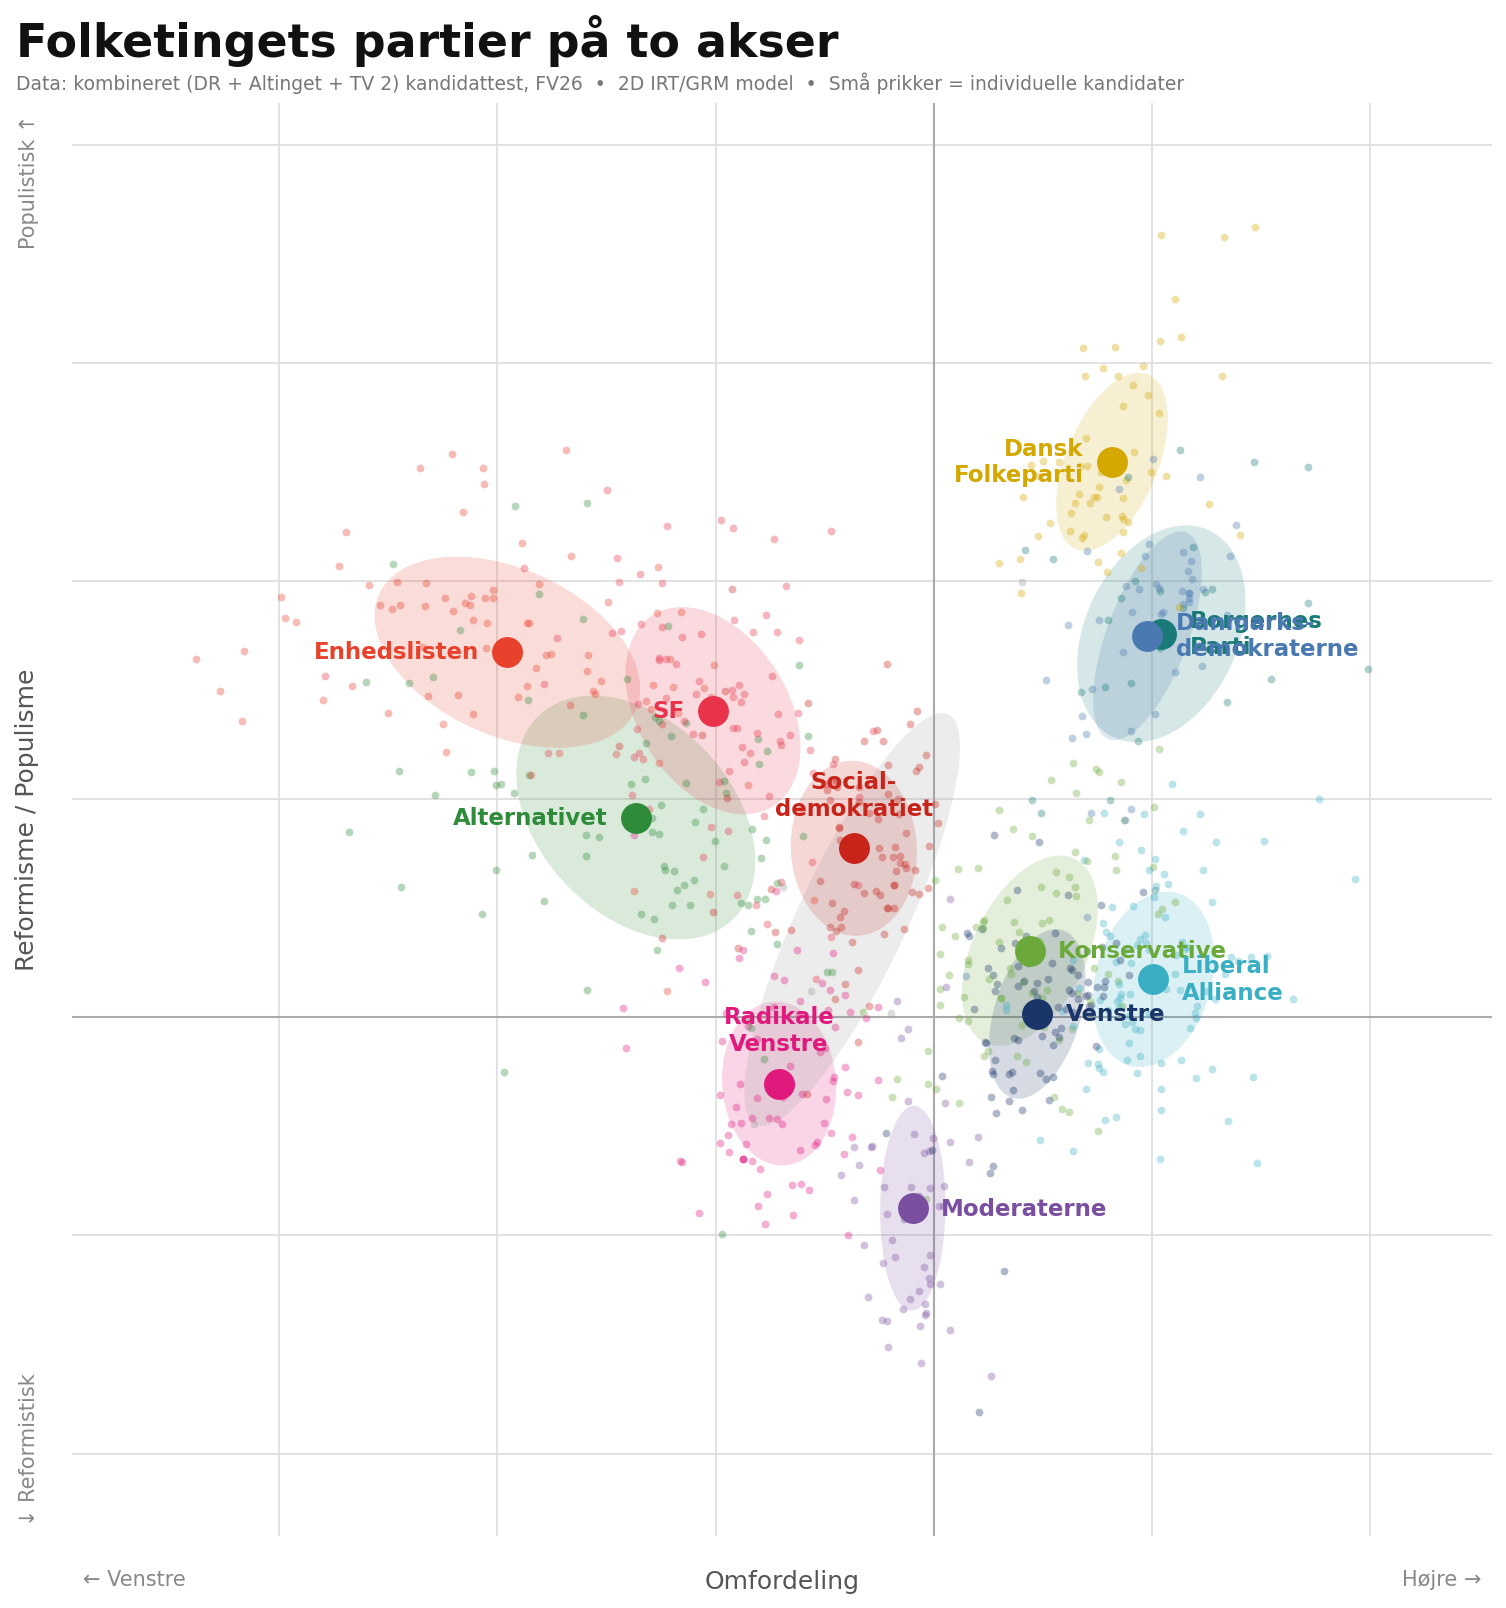
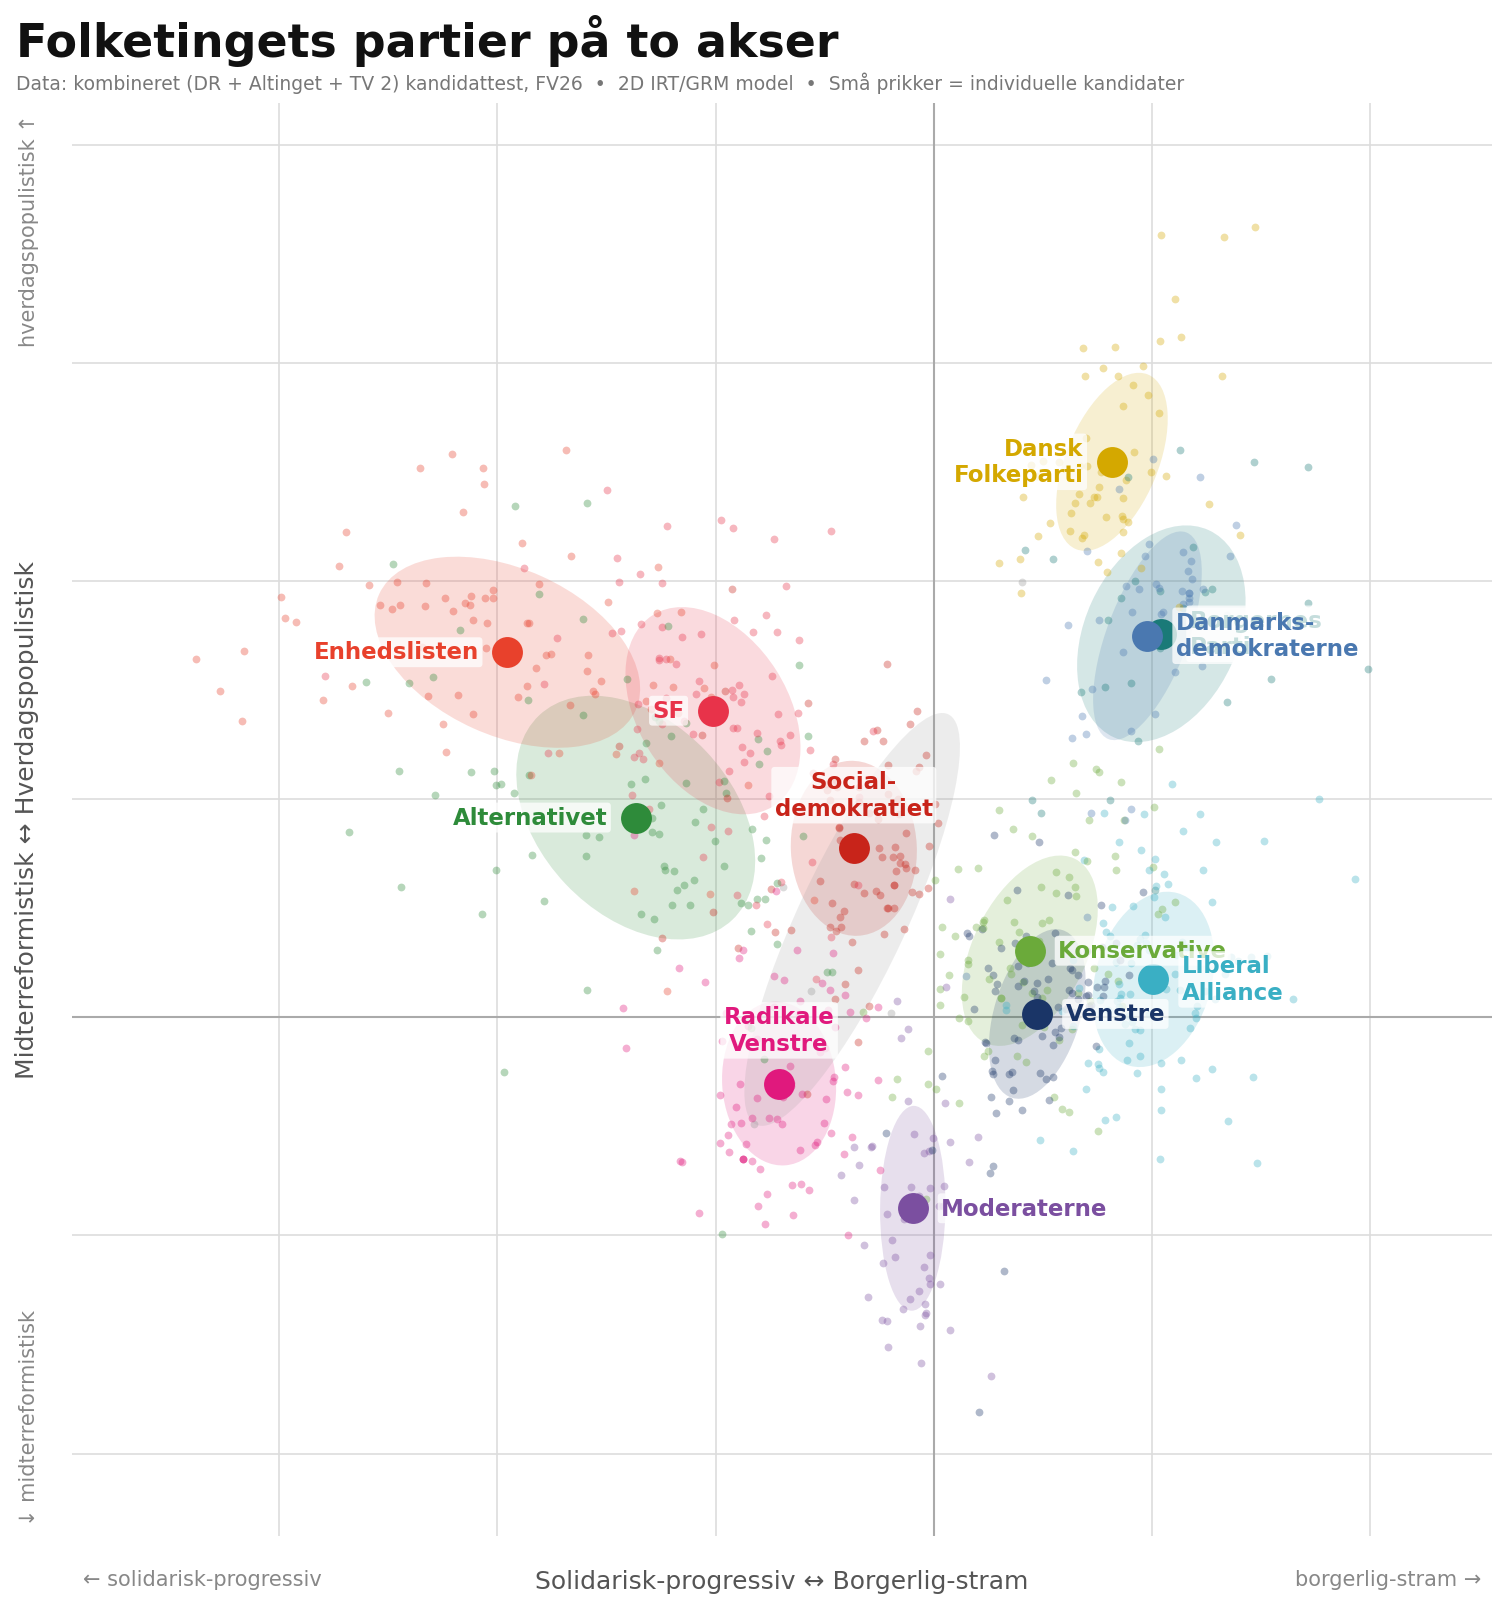
Rename axes using political-science framing
Axis 1: Solidarisk-progressiv ↔ Borgerlig-stram (old politics, left–right)
Axis 2: Midterreformistisk ↔ Hverdagspopulistisk (reform/pragmatism vs protection/protest)

README explains the GAL–TAN context and why Dim 2 is a reform axis, not a pure
cultural axis. Directional labels updated on the plot accordingly.

diff --git a/plot.py b/plot.py
@@ -158,7 +158,9 @@ def main():
         va = "bottom" if dy > 0 else ("top" if dy < 0 else "center")
         ax.text(mx + dx, my + dy, label,
                 fontsize=11, fontweight="bold", color=color,
-                ha=ha, va=va, linespacing=1.2, zorder=6)
+                ha=ha, va=va, linespacing=1.2, zorder=6,
+                bbox=dict(boxstyle="round,pad=0.15", facecolor="white",
+                          edgecolor="none", alpha=0.75))
 
     # ── Axis labels ───────────────────────────────────────────────────────────
     xlim = ax.get_xlim()
@@ -169,23 +171,23 @@ def main():
     xlim = ax.get_xlim()
     ylim = ax.get_ylim()
 
-    ax.text(np.mean(xlim), ylim[0] - 0.15, "Omfordeling",
+    ax.text(np.mean(xlim), ylim[0] - 0.15, "Solidarisk-progressiv ↔ Borgerlig-stram",
             ha="center", va="top", fontsize=12, color="#555555",
             transform=ax.transData, clip_on=False)
-    ax.text(xlim[0] + 0.05, ylim[0] - 0.15, "← Venstre",
+    ax.text(xlim[0] + 0.05, ylim[0] - 0.15, "← solidarisk-progressiv",
             ha="left", va="top", fontsize=10, color="#888888",
             transform=ax.transData, clip_on=False)
-    ax.text(xlim[1] - 0.05, ylim[0] - 0.15, "Højre →",
+    ax.text(xlim[1] - 0.05, ylim[0] - 0.15, "borgerlig-stram →",
             ha="right", va="top", fontsize=10, color="#888888",
             transform=ax.transData, clip_on=False)
 
-    ax.text(xlim[0] - 0.15, np.mean(ylim), "Reformisme / Populisme",
+    ax.text(xlim[0] - 0.15, np.mean(ylim), "Midterreformistisk ↔ Hverdagspopulistisk",
             ha="right", va="center", fontsize=12, color="#555555",
             rotation=90, transform=ax.transData, clip_on=False)
-    ax.text(xlim[0] - 0.15, ylim[1] - 0.05, "Populistisk ↑",
+    ax.text(xlim[0] - 0.15, ylim[1] - 0.05, "hverdagspopulistisk ↑",
             ha="right", va="top", fontsize=10, color="#888888",
             rotation=90, transform=ax.transData, clip_on=False)
-    ax.text(xlim[0] - 0.15, ylim[0] + 0.05, "↓ Reformistisk",
+    ax.text(xlim[0] - 0.15, ylim[0] + 0.05, "↓ midterreformistisk",
             ha="right", va="bottom", fontsize=10, color="#888888",
             rotation=90, transform=ax.transData, clip_on=False)
 

diff --git a/README.md b/README.md
@@ -69,9 +69,11 @@ After varimax, we fix the two sign ambiguities using well-known anchor parties (
 
 ### 5. Question Loadings
 
-#### Dim 1 — Omfordeling / Klassisk venstre–højre
+#### Dim 1 — Solidarisk-progressiv ↔ Borgerlig-stram
 
-Top 10 questions by absolute loading on Dim 1 (positive = right-wing position):
+This is the classical *"old politics"* left–right axis: redistribution, state vs market, and collective vs individual provision. In Danish politics this axis also bundles immigration hardness tightly with economic conservatism — the two clusters are empirically inseparable among candidates.
+
+Top 10 questions by absolute loading on Dim 1 (negative = solidarisk-progressiv, positive = borgerlig-stram):
 
 | Loading | Topic | Question |
 |---:|---|---|
@@ -86,11 +88,13 @@ Top 10 questions by absolute loading on Dim 1 (positive = right-wing position):
 | +3.12 | Social | OK at ulighed stiger, så længe alle bliver rigere |
 | +3.04 | Skat | Selskabsskatten skal sænkes |
 
-As in the DR-only analysis, economic and immigration questions load at nearly identical magnitude and cannot be separated — 4 of the top 10 items are immigration or foreign-aid related. The combined model adds a new item from Altinget: corporate tax cuts (+3.04), which aligns with the existing right-wing economic cluster.
+4 of the top 10 items are immigration or foreign-aid related, loading at the same magnitude as the economic items. They cannot be separated by any orthogonal rotation: harder immigration stances and lower-tax preferences co-vary tightly on a single dimension among Danish candidates. The combined model also adds corporate tax cuts (+3.04) from Altinget, reinforcing the economic right cluster.
 
-#### Dim 2 — Reformisme / Populisme
+#### Dim 2 — Midterreformistisk ↔ Hverdagspopulistisk
 
-Top 10 questions by absolute loading on Dim 2, with Dim 1 loading for context (positive Dim 2 = populist):
+This is a *"new politics"* second axis, but not in the conventional GAL–TAN sense. Rather than separating green/libertarian from authoritarian/nationalist positions, it separates a **reform-and-pragmatism** orientation (raise the pension age, accept foreign labour, prefer centrist coalitions, fund Ukraine) from a **protection-and-protest** orientation (restore Store Bededag, shorten working hours, protect fuel prices, oppose pension reform). This maps onto the Danish distinction between a technocratic center bloc and a populist protest wing that spans both sides of Dim 1.
+
+Top 10 questions by absolute loading on Dim 2, with Dim 1 loading for context (negative = midterreformistisk, positive = hverdagspopulistisk):
 
 | Dim 2 | Dim 1 | Topic | Question |
 |---:|---:|---|---|
@@ -105,9 +109,7 @@ Top 10 questions by absolute loading on Dim 2, with Dim 1 loading for context (p
 | −1.09 | +3.12 | Social | OK at ulighed stiger, så længe alle bliver rigere |
 | +0.99 | −2.55 | Økonomi | Politikerne skal arbejde for at sætte arbejdstiden ned |
 
-The combined model strengthens the Dim 2 interpretation. Questions that primarily load on Dim 2 (small Dim 1): pension reform (−2.14), cross-party government (−1.72), Store Bededag (+1.57), Ukraine support (−1.26/+1.26), and a new Altinget item on self-funded eldercare (−1.42). High Dim 2 (top of plot) = populist: opposing pension reform, opposing cross-party government, supporting Ukraine criticism, wanting Store Bededag back. Low Dim 2 (bottom) = reformist: Moderaterne, Radikale, Liberal Alliance.
-
-Cross-loading items (large Dim 1 and moderate Dim 2): benzin (+2.77/+1.18), corporate tax (+3.04/−1.17), foreign labour (−1.31/−1.66). After controlling for Dim 1, supporting lower corporate tax and lower benzin taxes is associated with being more populist — consistent with those being DF/DDem positions as well as LA positions.
+Questions primarily on Dim 2 (small Dim 1): pension reform (−2.14), cross-party government (−1.72), Store Bededag (+1.57), self-funded eldercare (−1.42), Ukraine (+1.26). These are labour-supply and pragmatism questions, not immigration questions. Cross-loading items (benzin, corporate tax, foreign labour, working hours) reflect within-bloc splits after controlling for Dim 1.
 
 ## Reproducing
 
